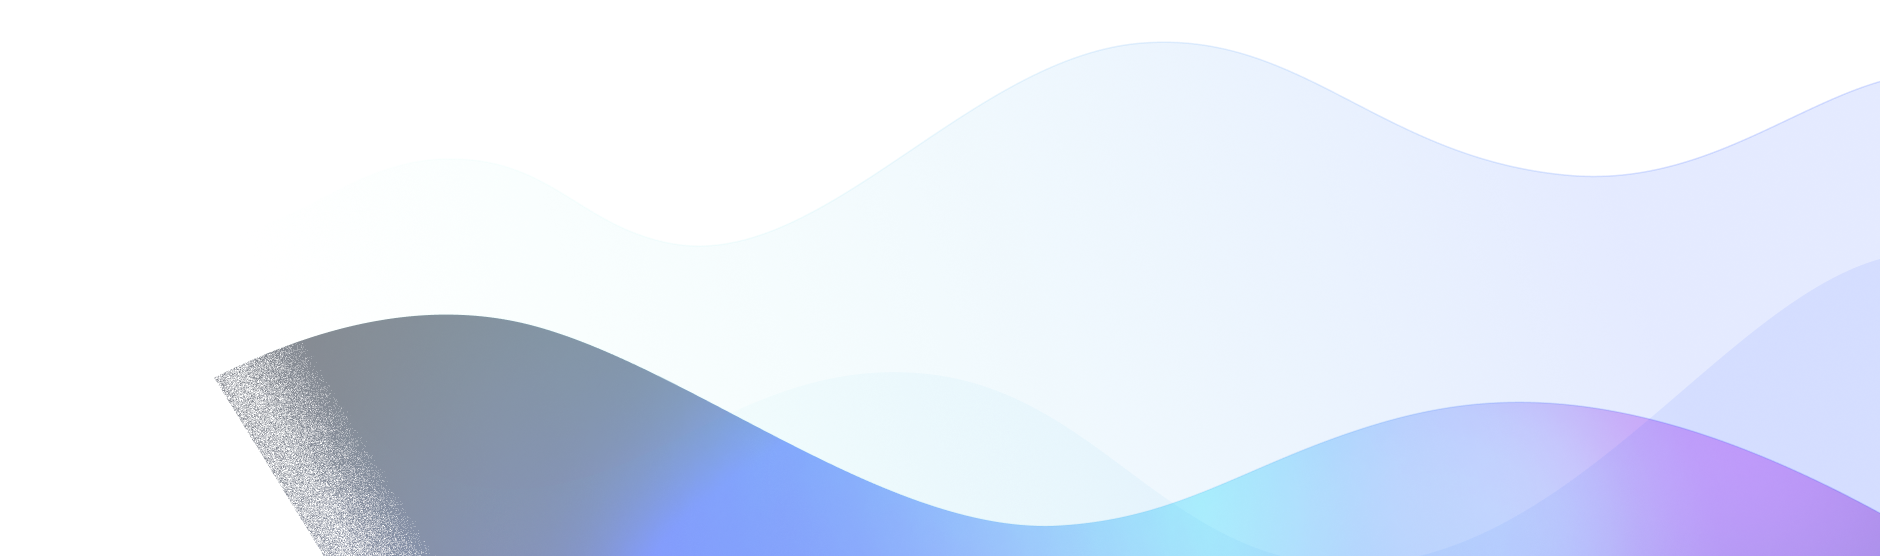
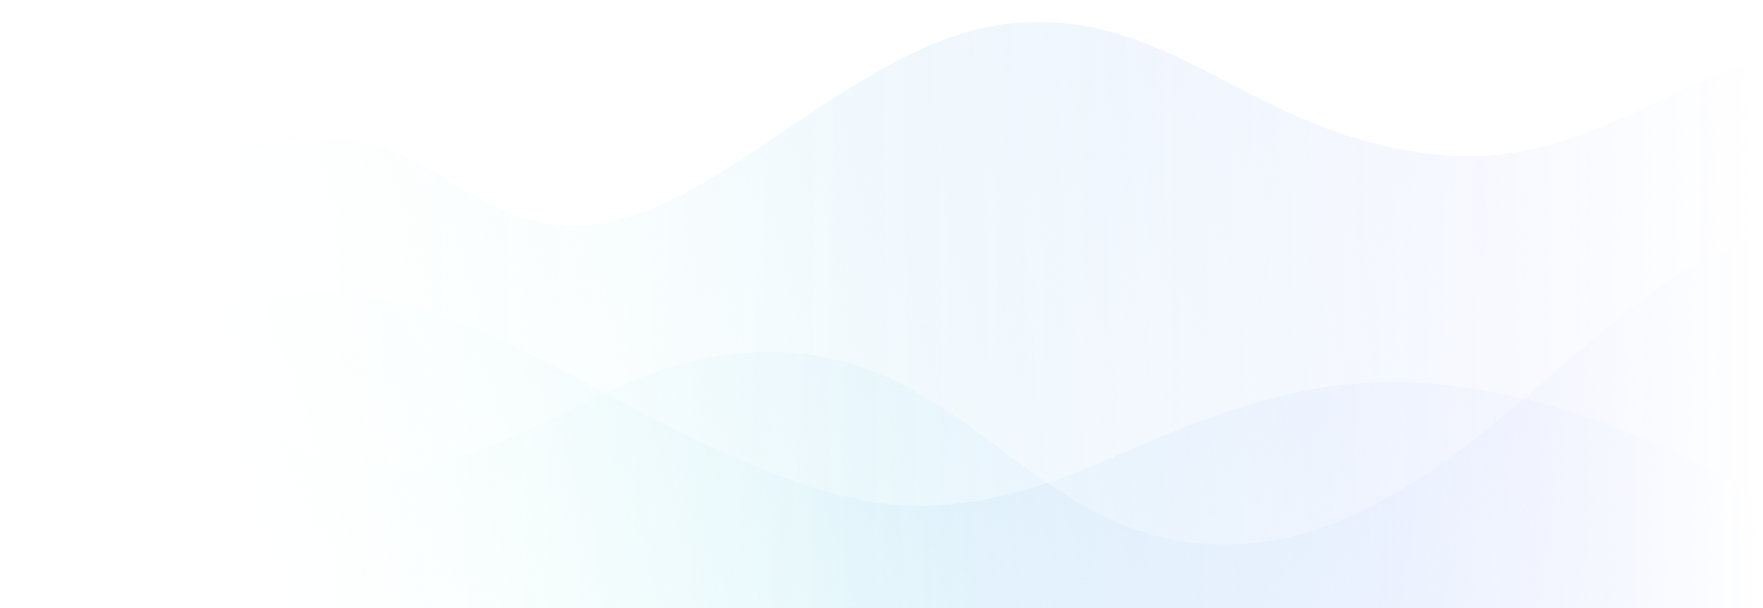
full pc build

Changed region(s): [[0.0936, 0.1223, 1.0, 1.0]]

diff --git a/css/style.css b/css/style.css
@@ -1,3 +1,4 @@
+@import url("https://fonts.googleapis.com/css2?family=Inter+Tight:wght@500;700;800&family=Inter:wght@300;500&display=swap");
 article, aside, details, figcaption, figure,
 footer, header, hgroup, menu, nav, section {
   display: block;
@@ -25,7 +26,7 @@ time, mark, audio, video, button {
   box-sizing: border-box;
   color: white;
   transition: 0.3s;
-  font-family: "Montserrat";
+  font-family: "Inter Tight";
 }
 
 img, svg {
@@ -33,21 +34,6 @@ img, svg {
 }
 
 a:hover, button:hover {
-  cursor: pointer;
-  opacity: 0.6;
-}
-
-.dnone {
-  display: none;
-}
-
-a {
-  text-decoration: none;
-}
-
-.meow {
-  color: red;
-}r {
   cursor: pointer;
   opacity: 0.6;
 }
@@ -336,6 +322,10 @@ header .container .buttons .try_now button {
 }
 .about_us .images div {
   z-index: -1;
+}
+.about_us .images .box {
+  left: -758px;
+  top: 52px;
 }
 .about_us .images .light1 {
   left: -102px;
@@ -1031,6 +1021,10 @@ header .container .buttons .try_now button {
   display: flex;
   justify-content: center;
 }
+.tutorial .tutorial_inner .images .chart {
+  top: 172px;
+  left: -888px;
+}
 .tutorial .tutorial_inner .images .man {
   top: 41px;
   left: -46px;
@@ -1162,6 +1156,10 @@ header .container .buttons .try_now button {
   display: flex;
   justify-content: center;
 }
+.chance .chance_inner .images .bybit {
+  top: 15px;
+  left: 223px;
+}
 .chance .chance_inner .images .circles {
   top: 127px;
   left: -395px;
@@ -1170,6 +1168,31 @@ header .container .buttons .try_now button {
 .chance .chance_inner .images .btc {
   top: -45px;
   left: -13px;
+}
+.chance .chance_inner .images .rocket {
+  top: -93px;
+  left: -928px;
+  z-index: 0;
+}
+.chance .chance_inner .images .eth {
+  top: 161px;
+  left: 408px;
+}
+.chance .chance_inner .images .usd_t {
+  top: 20px;
+  left: 458px;
+}
+.chance .chance_inner .images .btc_l {
+  top: 149px;
+  left: 238px;
+}
+.chance .chance_inner .images .btc_l img {
+  filter: grayscale(1);
+  opacity: 0.7;
+}
+.chance .chance_inner .chance_header {
+  z-index: 0;
+  position: relative;
 }
 .chance .chance_inner .chance_header .small {
   font-weight: 800;
@@ -1214,13 +1237,29 @@ header .container .buttons .try_now button {
 .small_offers {
   margin-top: -65px;
   position: relative;
+  padding-bottom: 87px;
   z-index: 2;
+  overflow: hidden;
+}
+.small_offers .images {
+  display: flex;
+  justify-content: center;
+}
+.small_offers .images .light {
+  top: 138px;
+  left: -506px;
+  z-index: -1;
 }
 .small_offers .container {
   display: flex;
   justify-content: space-between;
 }
+.small_offers .container .offer:hover {
+  border: 1px solid rgb(55, 99, 255);
+  box-shadow: 0px 16px 60px rgba(71, 145, 255, 0.29);
+}
 .small_offers .container .offer {
+  border: 1px solid rgba(55, 99, 255, 0);
   width: 32.5%;
   background: #1C1D1E;
   border-radius: 17px;
@@ -1303,7 +1342,6 @@ header .container .buttons .try_now button {
 
 footer {
   border-top: 1px solid rgba(255, 255, 255, 0.1);
-  margin-top: 87px;
   background: rgb(9, 10, 11);
 }
 footer .header {

diff --git a/index.html b/index.html
@@ -12,7 +12,7 @@
     <div class="light_block_1">
         <div class="light">
             <div class="line free_image">
-                <img src="img/usp_images/line.svg" alt="">
+                <img src="img/usp_images/line.png" alt="">
             </div>
             <div class="el1 free_image">
                 <img src="img/usp_images/el1.svg" alt="">
@@ -124,6 +124,9 @@
             <div class="about_us_inner">
                 <div class="container">
                     <div class="images">
+                        <div class="box free_image">
+                            <img src="img/abous_us_images/box.png" alt="">
+                        </div>
                         <div class="light1 free_image">
                             <img src="img/abous_us_images/light1.svg" alt="">
                         </div>
@@ -943,6 +946,9 @@
         <div class="tutorial">
             <div class="tutorial_inner">
                 <div class="images">
+                    <div class="chart free_image">
+                        <img src="img/tutorial_images/chart.png">
+                    </div>
                     <div class="light free_image">
                         <img src="img/tutorial_images/light.svg">
                     </div>
@@ -1039,11 +1045,26 @@
         <div class="chance_inner">
             <div class="container">
                 <div class="images">
+                    <div class="bybit free_image">
+                        <img src="img/chance_images/bybit.svg">
+                    </div>
                     <div class="circles free_image">
                         <img src="img/chance_images/circles.svg">
                     </div>
+                    <div class="rocket free_image">
+                        <img src="img/chance_images/rocket.png">
+                    </div>
                     <div class="btc free_image">
                         <img src="img/chance_images/btc.png">
+                    </div>
+                    <div class="eth free_image">
+                        <img src="img/chance_images/eth.png">
+                    </div>
+                    <div class="btc_l free_image">
+                        <img src="img/chance_images/btc_l.png">
+                    </div>
+                    <div class="usd_t free_image">
+                        <img src="img/chance_images/usd_t.svg">
                     </div>
                 </div>
                 <div class="chance_header">
@@ -1064,6 +1085,11 @@
         </div>
     </div>
     <div class="small_offers">
+        <div class="images">
+            <div class="light free_image">
+                <img src="img/small_offers/light.svg">
+            </div>
+        </div>
         <div class="container">
             <div class="offer">
                 <div class="name">

diff --git a/sass/style.sass b/sass/style.sass
@@ -254,6 +254,9 @@ header
         justify-content: center
         div
             z-index: -1
+        .box
+            left: -758px
+            top: 52px
         .light1
             left: -102px
             top: -100px
@@ -827,6 +830,9 @@ header
         .images
             display: flex
             justify-content: center
+            .chart
+                top: 172px
+                left: -888px
             .man
                 top: 41px
                 left: -46px
@@ -938,6 +944,9 @@ header
         .images
             display: flex
             justify-content: center
+            .bybit
+                top: 15px
+                left: 223px
             .circles
                 top: 127px
                 left: -395px
@@ -945,7 +954,26 @@ header
             .btc
                 top: -45px
                 left: -13px
+            .rocket
+                top: -93px
+                left: -928px
+                z-index: 0
+            .eth
+                top: 161px
+                left: 408px
+            .usd_t
+                top: 20px
+                left: 458px
+            .btc_l
+                top: 149px
+                left: 238px
+                img
+                    filter: grayscale(1)
+                    opacity: 0.7
         .chance_header
+            z-index: 0
+            position: relative
+
             .small
                 font-weight: 800
                 font-size: 16px
@@ -984,11 +1012,24 @@ header
 .small_offers
     margin-top: -65px
     position: relative
+    padding-bottom: 87px
     z-index: 2
+    overflow: hidden
+    .images
+        display: flex
+        justify-content: center
+        .light
+            top: 138px
+            left: -506px
+            z-index: -1
     .container
         display: flex
         justify-content: space-between
+        .offer:hover
+            border: 1px solid rgba(55, 99, 255, 1)
+            box-shadow: 0px 16px 60px rgba(71, 145, 255, 0.29)
         .offer
+            border: 1px solid rgba(55, 99, 255, 0)
             width: 32.5%
             background: #1C1D1E
             border-radius: 17px
@@ -1055,7 +1096,6 @@ header
 
 footer
     border-top: 1px solid rgba(255, 255, 255, .1)
-    margin-top: 87px
     background: rgba(9, 10, 11, 1)
     .header
         display: flex
